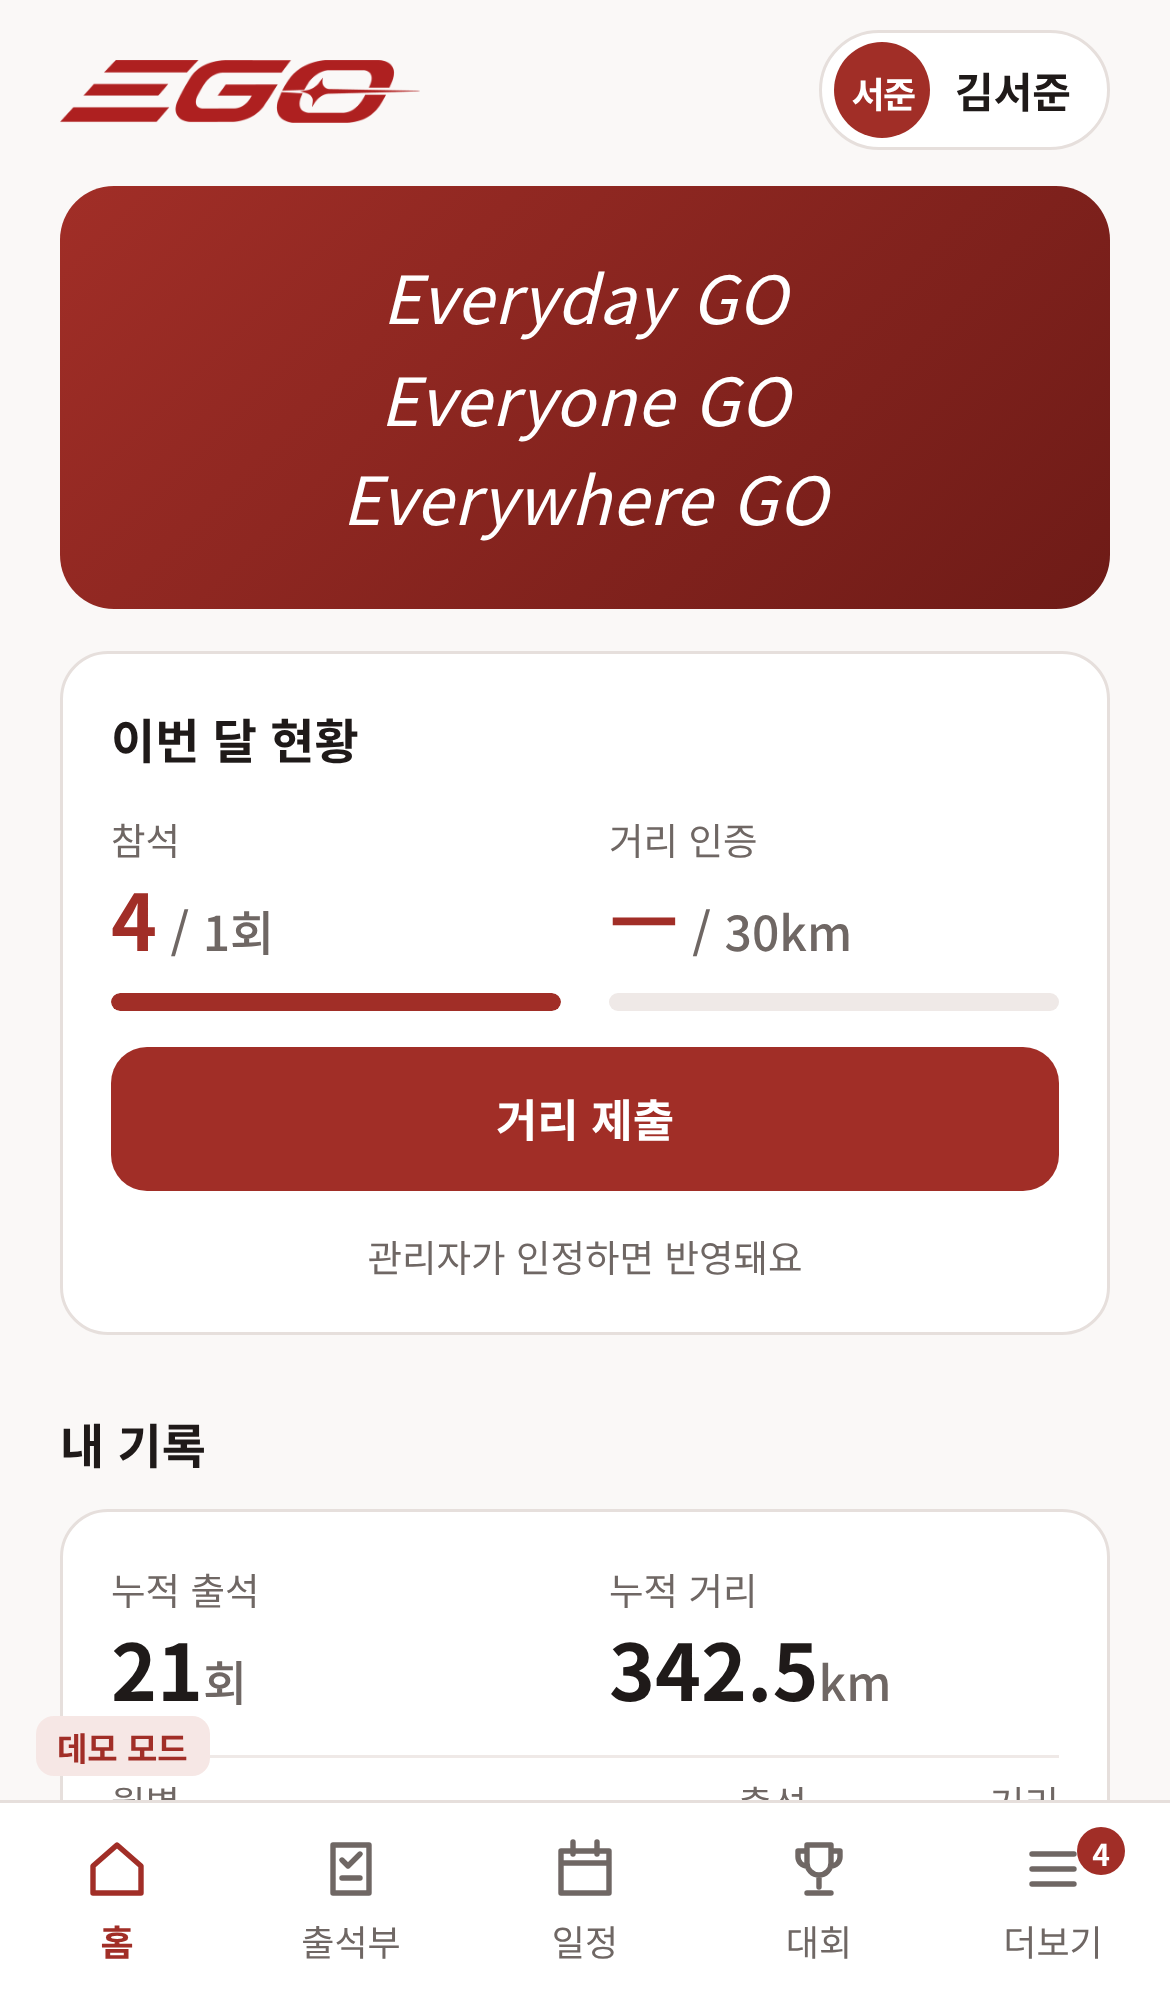
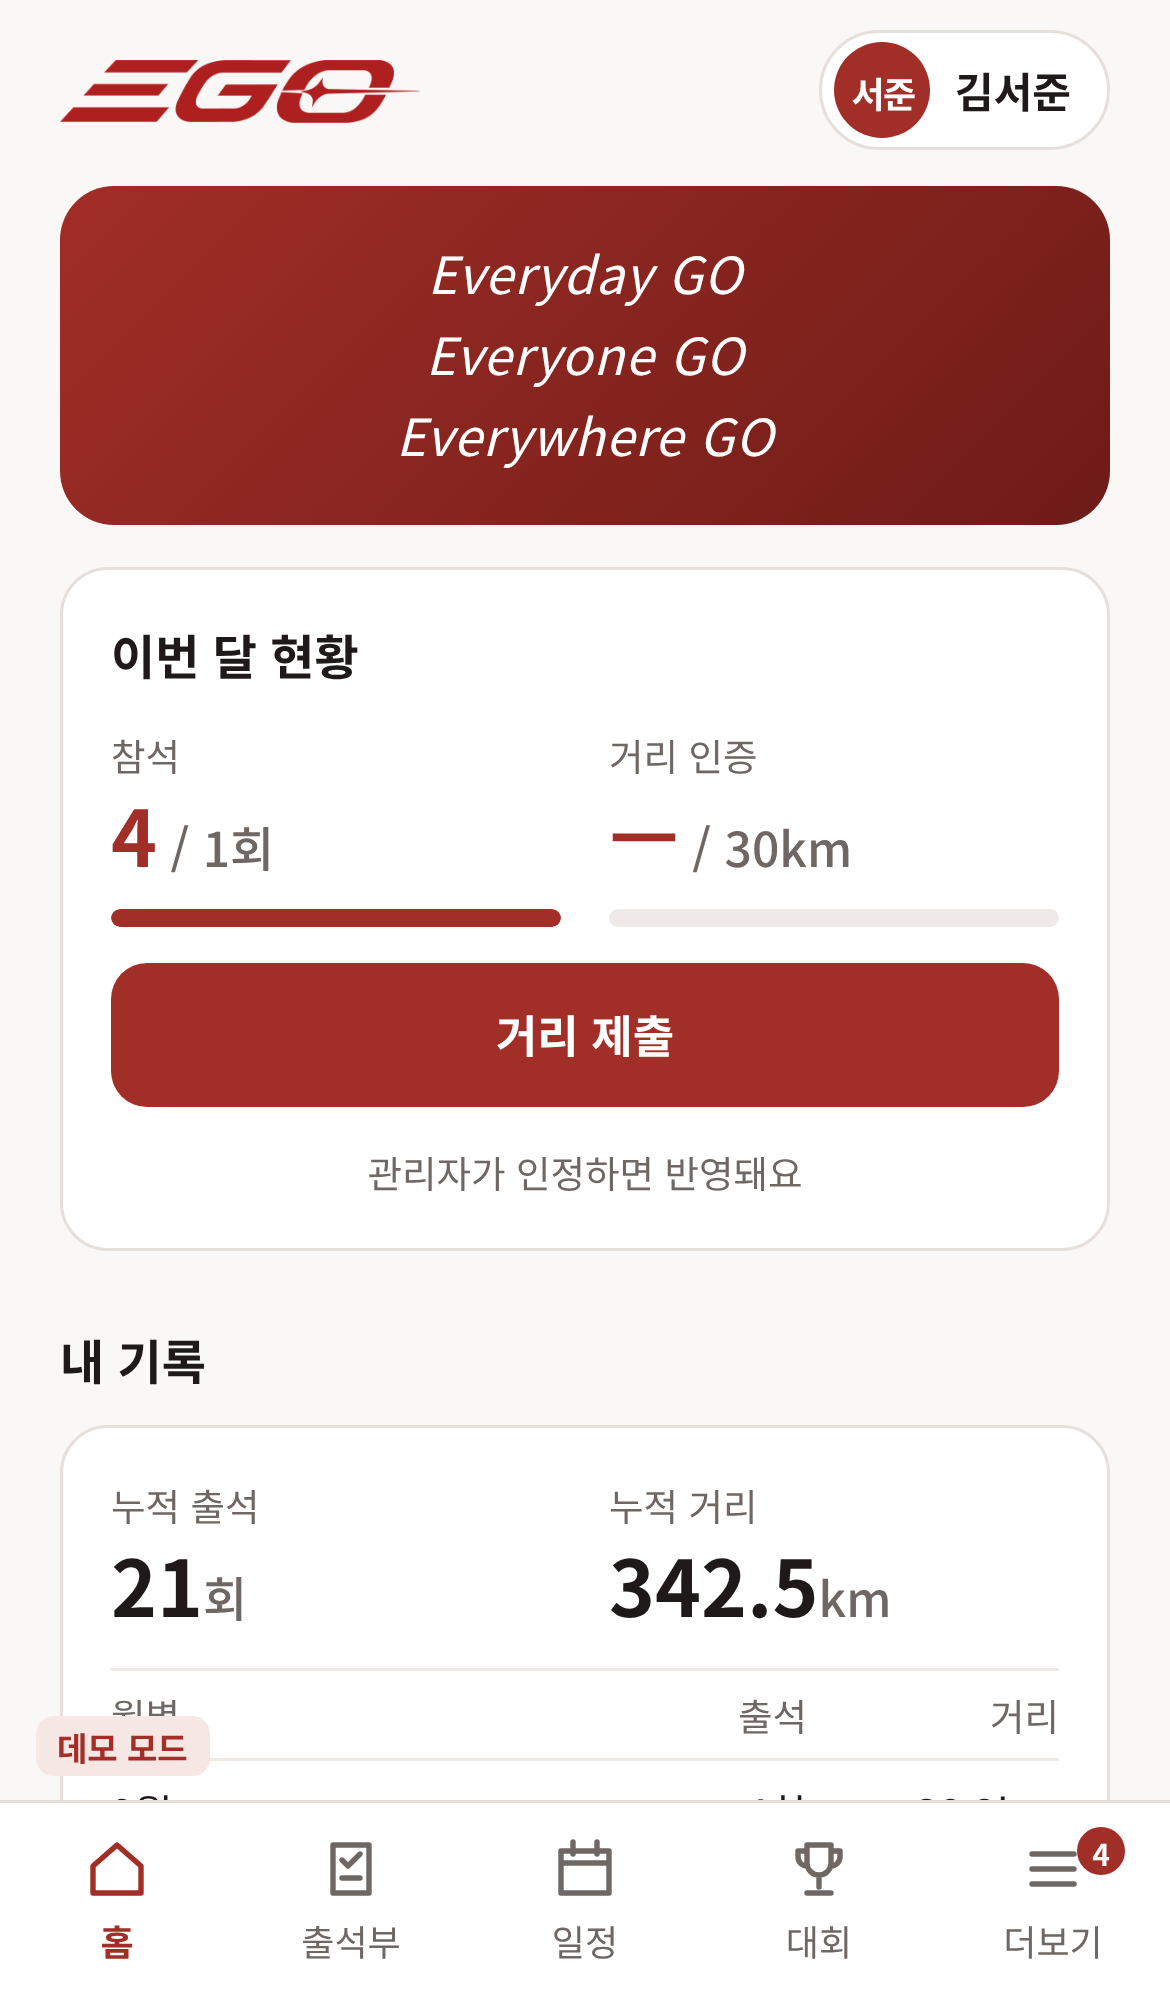
Home: smaller slogan font size
Claude-Session: https://claude.ai/code/session_01JBQRUjvS5j3AhGv1yxKT1a

diff --git a/app/globals.css b/app/globals.css
@@ -228,8 +228,8 @@ select.inp { appearance: none; background-image: none; }
 .me-chip .nm { font-size: 14px; font-weight: 700; white-space: nowrap; overflow: hidden; text-overflow: ellipsis; }
 
 .hero {
-  border-radius: 18px; padding: 22px 18px;
+  border-radius: 18px; padding: 18px;
   background: linear-gradient(135deg, var(--accent) 0%, var(--accent-deep) 100%); color: #fff;
   display: flex; flex-direction: column; align-items: center; justify-content: center; gap: 4px; text-align: center;
 }
-.hero p { margin: 0; font-size: 22px; font-weight: 400; letter-spacing: .3px; font-style: italic; line-height: 1.35; }
+.hero p { margin: 0; font-size: 17px; font-weight: 400; letter-spacing: .3px; font-style: italic; line-height: 1.35; }
